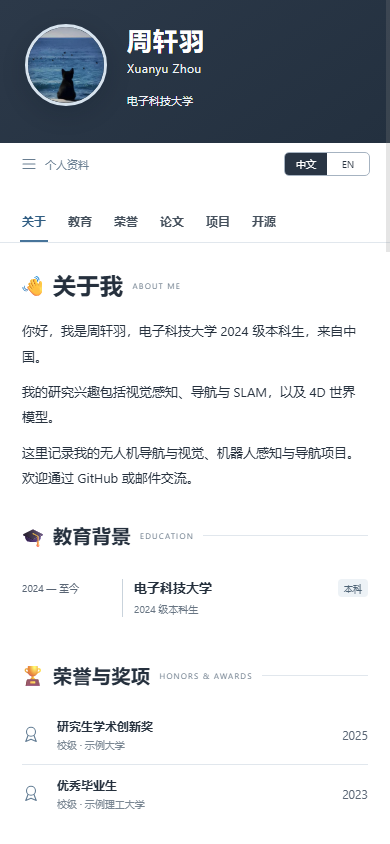
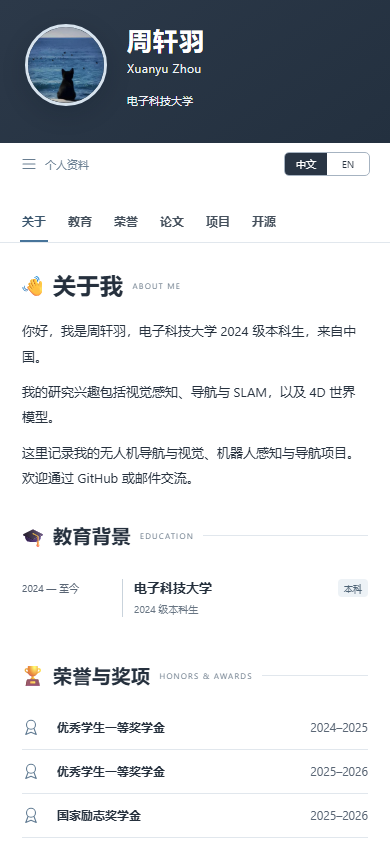
Update five honors and add English CET-4 and CET-6 skill

diff --git a/src/app.js b/src/app.js
@@ -106,7 +106,7 @@
     return data.awards
       .map(
         (x) =>
-          `<div class="award-row"><span class="award-icon">${icon("medal")}</span><div class="award-main"><strong>${esc(l(x.title))}</strong><small>${esc(l(x.organization))}</small></div><span class="award-year">${esc(x.year)}</span></div>`,
+          `<div class="award-row"><span class="award-icon">${icon("medal")}</span><div class="award-main"><strong>${esc(l(x.title))}</strong>${l(x.organization) ? `<small>${esc(l(x.organization))}</small>` : ""}</div><span class="award-year">${esc(x.year)}</span></div>`,
       )
       .join("");
   }

diff --git a/README.md b/README.md
@@ -97,7 +97,7 @@ node scripts/serve.mjs
 5. 确认示例履历已全部替换或删除，再将顶层 `"demo": true` 改为 `"demo": false`，并更新 `profile.updated`。
 6. 按[修改后的预览与发布](#修改后的预览与发布)检查并推送。
 
-当前个人信息已更新为周轩羽（Xuanyu Zhou），电子科技大学 2024 级本科生，邮箱为 `1285027656@qq.com`。研究方向为视觉感知、导航与 SLAM、4D 世界模型；头像仍是用户提供的海边黑猫。教育背景与两个核心项目已更新，项目分别链接到 `drone-nav-and-vision` 和 `robot_challenge`，介绍依据仓库 README 编写。专业技能为 Python、PyTorch、C++；荣誉与论文尚未替换，仍明确标为示例；GitHub 区域使用真实账号数据。
+当前个人信息已更新为周轩羽（Xuanyu Zhou），电子科技大学 2024 级本科生，邮箱为 `1285027656@qq.com`。研究方向为视觉感知、导航与 SLAM、4D 世界模型；头像仍是用户提供的海边黑猫。教育背景与两个核心项目已更新，项目分别链接到 `drone-nav-and-vision` 和 `robot_challenge`，介绍依据仓库 README 编写。专业技能为 Python、PyTorch、C++、英语四六级；荣誉与奖项已替换为用户提供的五项，论文仍为示例；GitHub 区域使用真实账号数据。
 
 ### 配置文件的基本写法
 
@@ -384,7 +384,7 @@ This is an original, dependency-free academic homepage inspired by the content s
 
 Run `node scripts/build.mjs` and `node scripts/serve.mjs` with Node.js 20+. Edit bilingual content in `data/site.json`, and put images in `assets/images/`. Desktop columns scroll independently. Mobile uses a single-column layout with expandable profile details. Language preference persists locally.
 
-The profile belongs to Xuanyu Zhou, a UESTC undergraduate who entered in 2024. Education and the two repository-linked projects have been updated; skills are Python, PyTorch, and C++; honors and papers remain labeled placeholders. Replace those before disabling `demo`. Project descriptions are based on the linked repositories, without unverified personal-role claims. The GitHub section uses the configured account's real contribution calendar, defaulting to the rolling-year view used by GitHub profiles, with current-year and previous-year options. Upstream merged PRs are listed separately. GitHub Actions refreshes the data and deploys on pushes, manual runs, and a daily schedule. Tokens are never included in the public website.
+The profile belongs to Xuanyu Zhou, a UESTC undergraduate who entered in 2024. Education and the two repository-linked projects have been updated; skills are Python, PyTorch, C++, and English CET-4 & CET-6. The five honors have been updated; only papers remain labeled placeholders. Replace those before disabling `demo`. Project descriptions are based on the linked repositories, without unverified personal-role claims. The GitHub section uses the configured account's real contribution calendar, defaulting to the rolling-year view used by GitHub profiles, with current-year and previous-year options. Upstream merged PRs are listed separately. GitHub Actions refreshes the data and deploys on pushes, manual runs, and a daily schedule. Tokens are never included in the public website.
 
 Enable **GitHub Actions** as the repository's Pages source. A project repository named `academichomepage.github.io` is served at `https://USERNAME.github.io/academichomepage.github.io/`.
 
